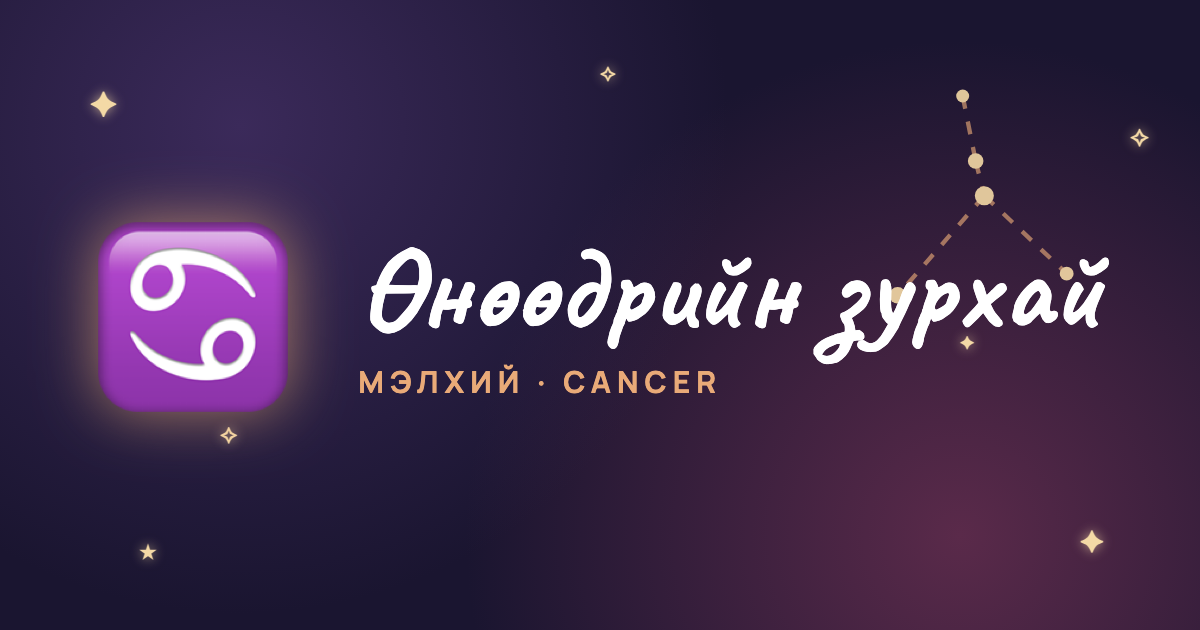
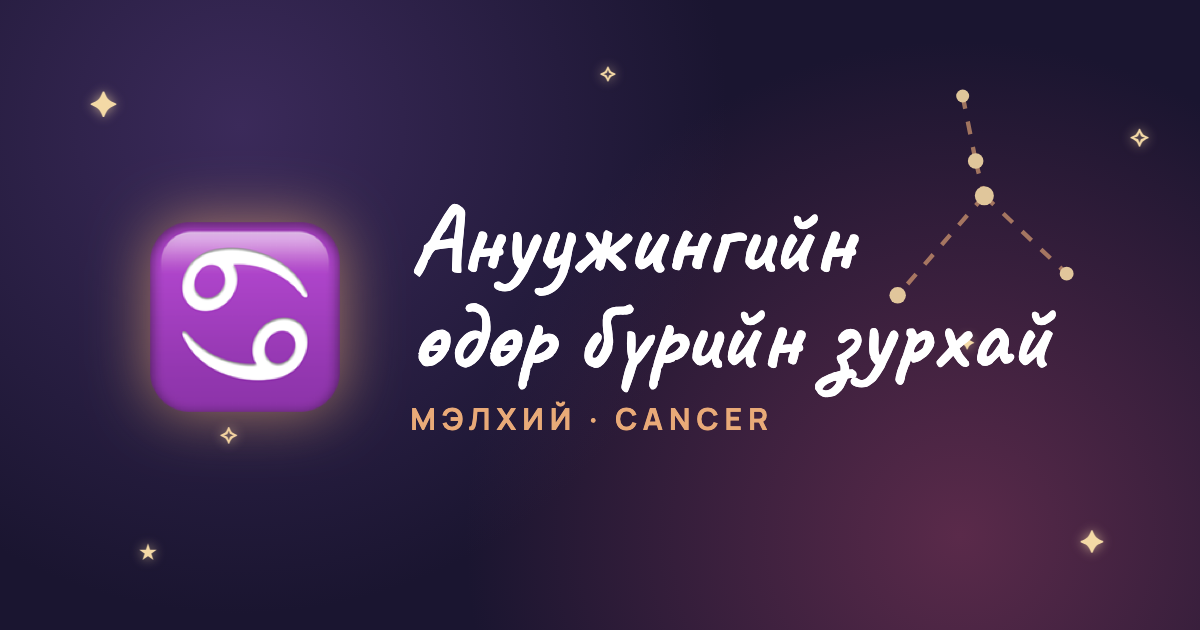
Title and preview: Anuujin's daily horoscope

Changed region(s): [[0.0617, 0.3317, 0.925, 0.6937]]

diff --git a/index.html b/index.html
@@ -3,12 +3,12 @@
   <head>
     <meta charset="UTF-8" />
     <meta name="viewport" content="width=device-width, initial-scale=1.0" />
-    <title>Өнөөдрийн зурхай</title>
-    <meta name="description" content="Мэлхийн ордны өнөөдрийн зурхай" />
+    <title>Ануужингийн өдөр бүрийн зурхай</title>
+    <meta name="description" content="Мэлхийн ордны өдөр бүрийн зурхай, өдөр бүр шинэчлэгдэнэ" />
     <link rel="icon" type="image/svg+xml" href="favicon.svg" />
     <meta property="og:type" content="website" />
-    <meta property="og:title" content="Өнөөдрийн зурхай ♋" />
-    <meta property="og:description" content="Мэлхийн ордны өнөөдрийн зурхай" />
+    <meta property="og:title" content="Ануужингийн өдөр бүрийн зурхай ♋" />
+    <meta property="og:description" content="Мэлхийн ордны өдөр бүрийн зурхай, өдөр бүр шинэчлэгдэнэ" />
     <meta property="og:image" content="https://battulgamulen-png.github.io/anuujin-card/zurhai-preview.png" />
     <meta property="og:image:width" content="1200" />
     <meta property="og:image:height" content="630" />
